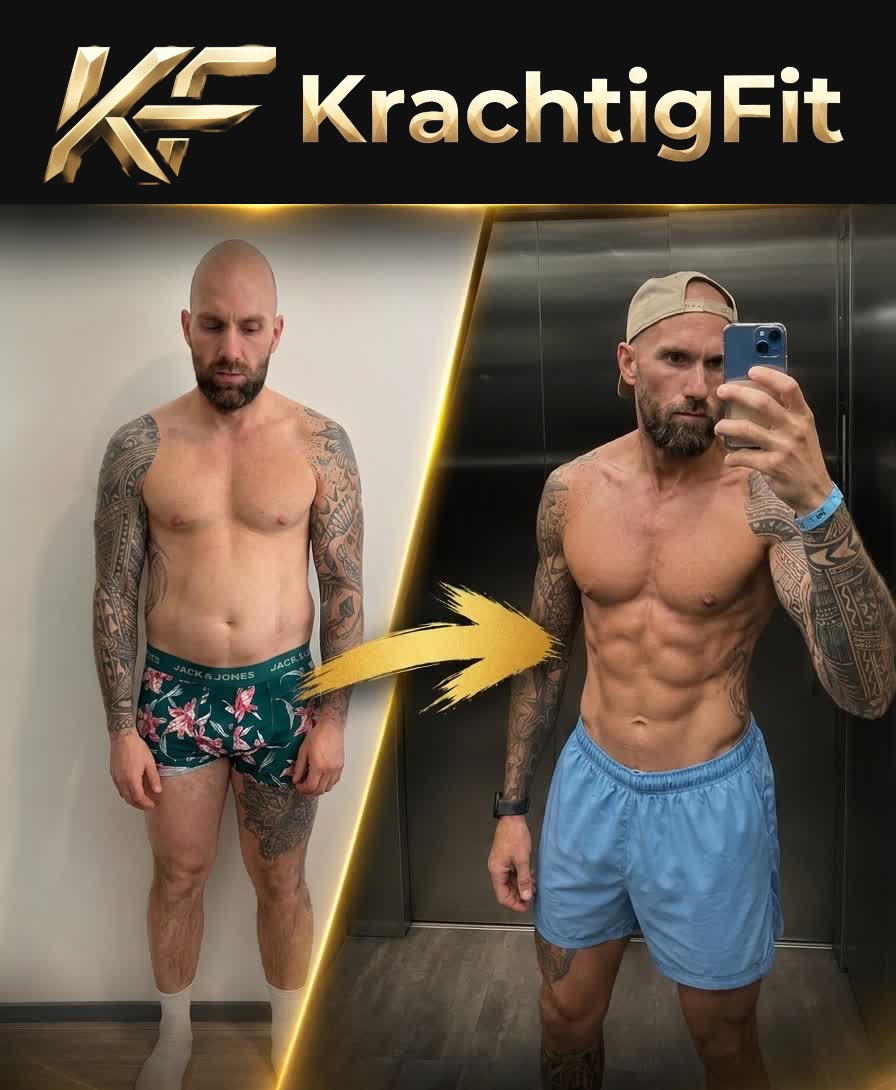
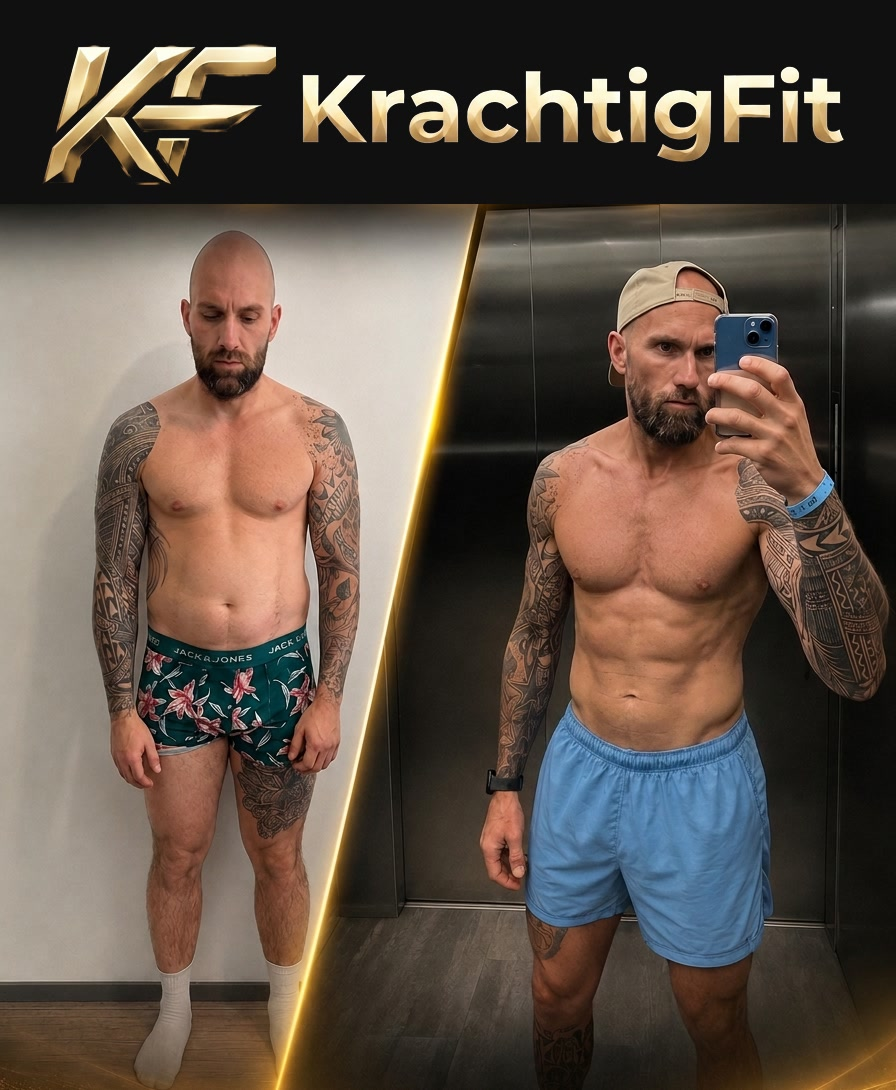
Swap client-result-3 photo, remove wheel/scroll from the results carousel
- Replace client-result-3 with the user's updated source photo
  (Result2.1.jpeg), applying the same crop + seamless logo blend used for
  the other 5 images.
- Remove the wheel/trackpad handler from CircularGallery: it spun the
  carousel on scroll, which fought the page's own scroll whenever the
  cursor was over the gallery. Drag and the Previous/Next buttons (and
  arrow keys) remain the only ways to move it.

Changed region(s): [[0.0, 0.1872, 1.0, 1.0], [0.8125, 0.9358, 1.0, 1.0], [0.4688, 0.967, 0.5, 0.9982]]

diff --git a/src/components/effects/circular-gallery.tsx b/src/components/effects/circular-gallery.tsx
@@ -13,7 +13,7 @@ import "./circular-gallery.css";
  * the fetch tool's own fair-use refusal) — no registry JSON either, unlike
  * the reactbits components ported elsewhere in this codebase. So this is a
  * from-scratch build matching the reference's actual behaviour (images on
- * a rotating 3D cylinder, drag/scroll/keyboard to spin it) rather than a
+ * a rotating 3D cylinder, drag/buttons/keyboard to spin it) rather than a
  * line-for-line port, in this project's own conventions: CSS transforms
  * plus a couple of refs, no WebGL/OGL dependency, styled to match the
  * Reviews section's hard-edged bordered-card language instead of the
@@ -31,13 +31,19 @@ import "./circular-gallery.css";
  * without hardcoding a breakpoint table here that would drift from the
  * CSS file's own breakpoint if either one changed later.
  *
- * Drag and wheel both skip the CSS transition (instant, 1:1 with the
- * pointer/wheel delta) so the spin feels directly grabbed rather than
- * laggy; releasing either snaps to the nearest item with the transition
- * back on. The Previous/Next buttons and arrow keys are the same snap,
- * triggered without a drag ever starting — they exist because dragging
- * and scrolling are not keyboard-operable, and this is real content (a
- * client's actual result), not decoration, so it needs a non-pointer path.
+ * Drag skips the CSS transition (instant, 1:1 with the pointer delta) so
+ * the spin feels directly grabbed rather than laggy; releasing it snaps to
+ * the nearest item with the transition back on. The Previous/Next buttons
+ * and arrow keys are the same snap, triggered without a drag ever starting
+ * — they exist because dragging isn't keyboard-operable, and this is real
+ * content (a client's actual result), not decoration, so it needs a
+ * non-pointer path.
+ *
+ * Deliberately no wheel/scroll handler: an earlier version spun the
+ * carousel on wheel/trackpad input, which fought the page's own scroll the
+ * moment the cursor was over the gallery. Drag and the buttons/arrow keys
+ * are the only ways to move it now — wheel input just scrolls the page,
+ * like everywhere else on the site.
  *
  * No prefers-reduced-motion branch needed in this file: every animated
  * transform here is `transition`-driven CSS, not a JS-timed animation, and
@@ -94,9 +100,6 @@ export function CircularGallery({
 
   const draggingRef = useRef(false);
   const dragStartRef = useRef({ x: 0, rotation: 0 });
-  const wheelTimeoutRef = useRef<ReturnType<typeof setTimeout> | undefined>(
-    undefined,
-  );
 
   const angleStep = 360 / items.length;
 
@@ -154,15 +157,6 @@ export function CircularGallery({
     snapToNearest();
   }
 
-  function onWheel(e: React.WheelEvent) {
-    e.preventDefault();
-    setSnapping(false);
-    const delta = Math.abs(e.deltaY) > Math.abs(e.deltaX) ? e.deltaY : e.deltaX;
-    setRotation((r) => r + delta * 0.3);
-    if (wheelTimeoutRef.current) clearTimeout(wheelTimeoutRef.current);
-    wheelTimeoutRef.current = setTimeout(() => snapToNearest(), 150);
-  }
-
   function onKeyDown(e: React.KeyboardEvent) {
     if (e.key === "ArrowLeft") {
       e.preventDefault();
@@ -185,7 +179,6 @@ export function CircularGallery({
         onPointerMove={onPointerMove}
         onPointerUp={endDrag}
         onPointerCancel={endDrag}
-        onWheel={onWheel}
         onKeyDown={onKeyDown}
       >
         <div
